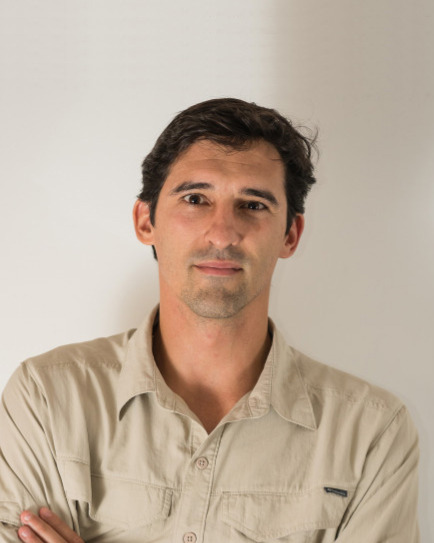
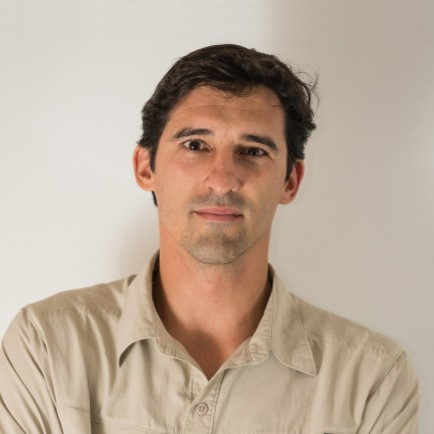
started meetupslist component using  bootstrap tabs

diff --git a/src/components/PreviousConferences/VidList.js b/src/components/PreviousConferences/VidList.js
@@ -29,34 +29,36 @@ function VidList(props) {
   return (
     <div>
       <NavBar />
-      <h2 className="vidlist-title">{`PRODUCTIZED CONFERENCE ${year}`}</h2>
-      <div className="vidlist-belowtitle-div">
-        <div className="vidlist-text-pics">
-          <p className="vidlist-text">{confText}</p>
-          <a href={`/previousconferences/${year}/albums`}>
-            <button className="pics-button">
-              Check out pictures from the event
-            </button>
-          </a>
+      <div className="vidlist-body">
+        <h2 className="vidlist-title">{`PRODUCTIZED CONFERENCE ${year}`}</h2>
+        <div className="vidlist-belowtitle-div">
+          <div className="vidlist-text-pics">
+            <p className="vidlist-text">{confText}</p>
+            <a href={`/previousconferences/${year}/albums`}>
+              <button className="pics-button">
+                Check out pictures from the event
+              </button>
+            </a>
+          </div>
+          <div className="recap-video">
+            <iframe
+              width="356"
+              height="200"
+              title={recapVideo.title}
+              src={recapVideo.link}
+              frameborder="0"
+              allow="accelerometer; autoplay; encrypted-media; gyroscope; picture-in-picture"
+              allowFullScreen
+              webkitallowfullscreen
+              mozallowfullscreen
+            />
+          </div>
         </div>
-        <div className="recap-video">
-          <iframe
-            width="356"
-            height="200"
-            title={recapVideo.title}
-            src={recapVideo.link}
-            frameborder="0"
-            allow="accelerometer; autoplay; encrypted-media; gyroscope; picture-in-picture"
-            allowFullScreen
-            webkitallowfullscreen
-            mozallowfullscreen
-          />
+        <div className="videos-div">
+          {chosenVideos.map((video) => (
+            <VidCard {...video} key={video.id} />
+          ))}
         </div>
-      </div>
-      <div className="videos-div">
-        {chosenVideos.map((video) => (
-          <VidCard {...video} key={video.id} />
-        ))}
       </div>
       <Footer />
     </div>

diff --git a/src/components/Homepage/CurrentEvent/CurrentEvent.css b/src/components/Homepage/CurrentEvent/CurrentEvent.css
@@ -8,7 +8,7 @@
   display: flex;
   align-items: center;
   justify-content: center;
-  width: 85%;
+  width: 100%;
   text-align: center;
   background: #e83f36;
   animation: mymove 2s;
@@ -26,7 +26,7 @@
   font-size: 0.5em;
   color: white;
   text-align: left;
-  margin: 10px;
+  margin: 20px;
   padding: 0;
 }
 
@@ -35,9 +35,9 @@
 }
 
 .current-event-button-link {
-  width: 100px;
+  /* width: 200px; */
   text-align: left;
-  margin-right: 10px;
+  margin-right: 5px;
   margin-bottom: 5px;
 }
 
@@ -102,14 +102,16 @@
   }
 
   .current-event-p {
+    width: 300px;
     font-size: 0.7em;
-    margin-right: 0px;
-    margin-left: 10px;
+    margin: 0 0 0 10px;
+    padding: 0;
   }
 
   .current-event-button {
     font-size: 0.7em;
     padding: 5px 10px;
+    margin-right: 10px;
   }
 
   @keyframes mymove {
@@ -223,6 +225,13 @@
 
   .current-event-img {
     width: 70px;
+  }
+
+  .current-event-p {
+    width: 400px;
+    font-size: 1em;
+    margin: 0 0 0 50px;
+    padding: 0;
   }
 
   @keyframes mymove {

diff --git a/src/components/MeetUps/MeetUpsList.js b/src/components/MeetUps/MeetUpsList.js
@@ -1,7 +1,35 @@
 import React from 'react';
+import { Tabs, Tab } from 'react-bootstrap';
+import NavBar from '../Shared/NavBar';
+import Footer from '../Shared/Footer';
+import './MeetUpsList.css';
 
-function MeetUps() {
-  return <h1>Meet Ups</h1>;
+class MeetUps extends React.Component {
+  constructor(props) {
+    super(props);
+    this.state = {};
+  }
+
+  render() {
+    return (
+      <>
+        <NavBar />
+        <h1>MeetUps</h1>
+        <Tabs defaultActiveKey="2020" id="uncontrolled-tab-example">
+          <Tab eventKey="2020" title="2020" className="tab-div">
+            Cards with Videos and Images links
+          </Tab>
+          <Tab eventKey="2019" title="2019" className="tab-div">
+            Cards with Videos and Images links
+          </Tab>
+          <Tab eventKey="2018" title="2018" className="tab-div">
+            Cards with Videos and Images links
+          </Tab>
+        </Tabs>
+        <Footer />
+      </>
+    );
+  }
 }
 
 export default MeetUps;

diff --git a/src/components/Homepage/OurTeam/OurTeam.css b/src/components/Homepage/OurTeam/OurTeam.css
@@ -18,7 +18,7 @@
 
 .cards {
   position: relative;
-  width: 250px;
+  width: 300px;
   margin: 0px 40px 40px 40px;
   box-shadow: 5px 5px 20px rgba(89, 88, 88, 0.3);
 }
@@ -27,6 +27,8 @@
   display: block;
   width: 100%;
   height: auto;
+  object-fit: cover;
+  overflow: hidden;
 }
 
 .text-overlay {
@@ -47,7 +49,8 @@
 }
 
 .team-text {
-  width: 220px;
+  width: 300px;
+  padding: 15px;
   color: white;
   position: absolute;
   top: 50%;
@@ -60,7 +63,7 @@
 
 .team-text-name {
   font-family: Klavika Bold;
-  font-size: 1.2em;
+  font-size: 1.3em;
 }
 
 .team-text-description {

diff --git a/src/components/MeetUps/MeetUpsList.css b/src/components/MeetUps/MeetUpsList.css
@@ -1,0 +1,18 @@
+.tab-div {
+  text-align: center;
+}
+
+.nav-tabs .nav-item.show .nav-link,
+.nav-tabs .nav-link.active {
+  color: #fff !important;
+  background-color: #e83f36 !important;
+  border-color: #e83f36 #e83f36 #e83f36 !important;
+}
+
+.nav-tabs {
+  border-bottom: 1px solid #e83f36 !important;
+}
+
+a {
+  color: #464646 !important;
+}
